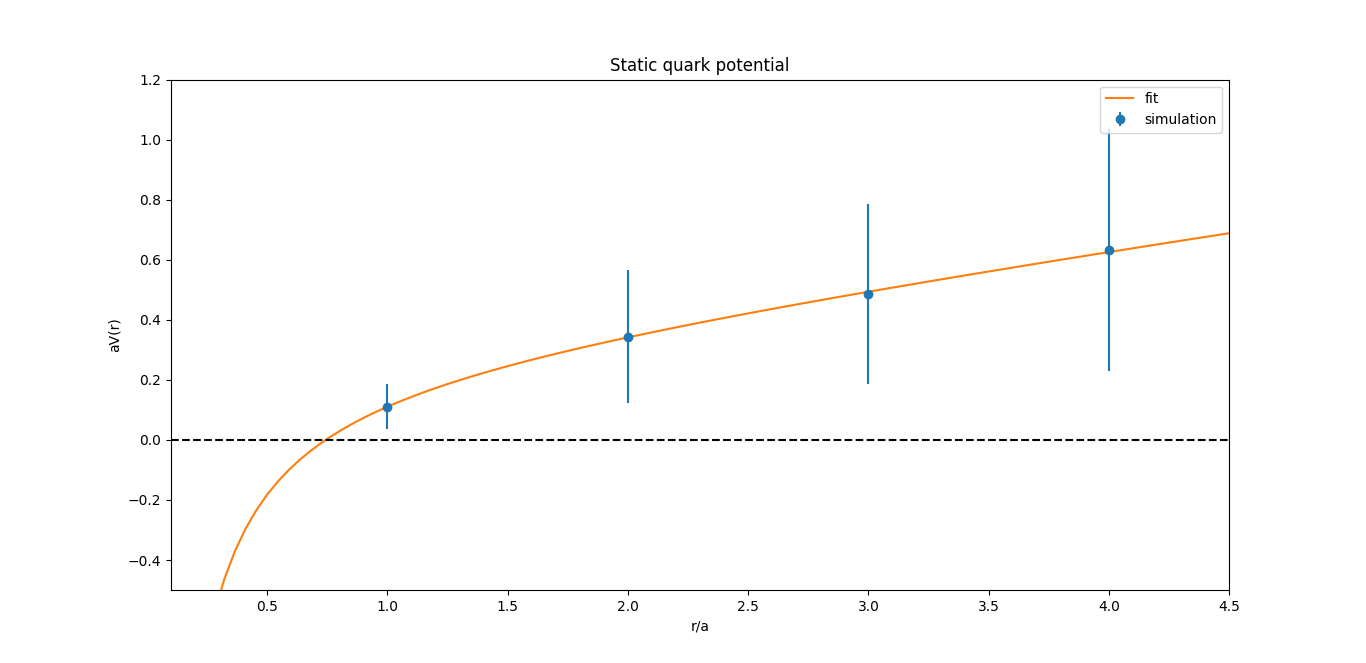
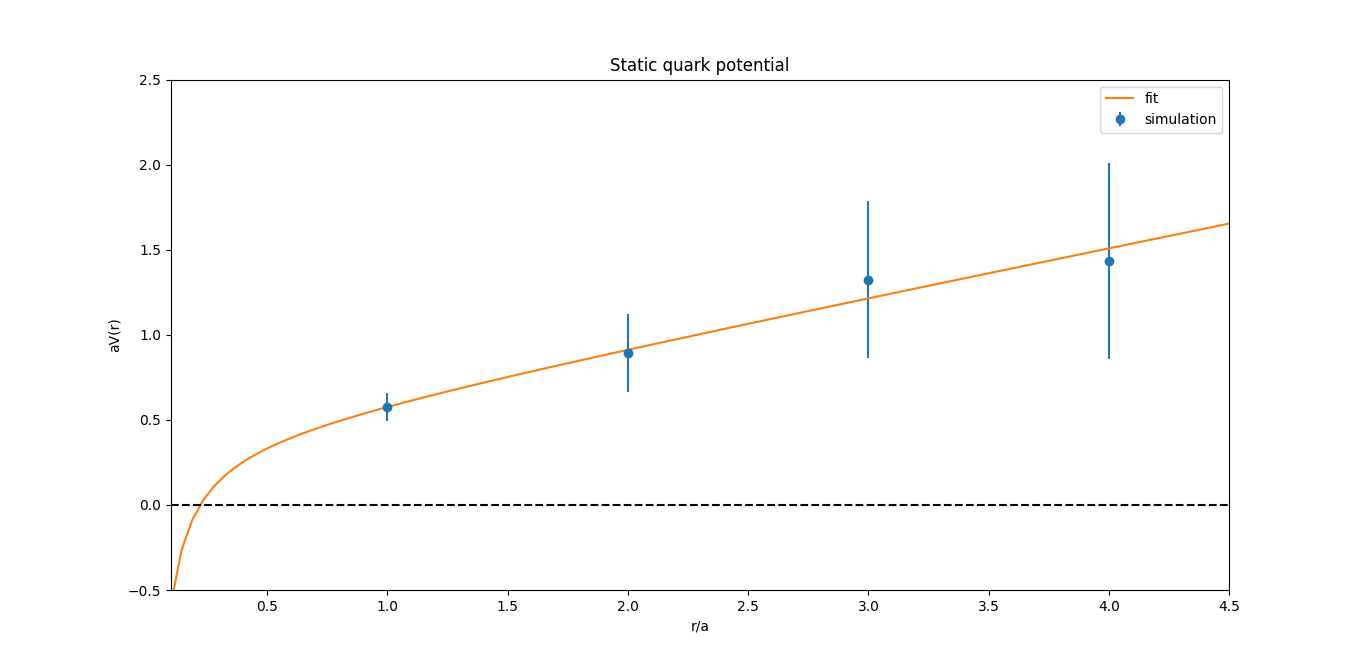
Final commit

diff --git a/static_quarks.py b/static_quarks.py
@@ -4,7 +4,7 @@ from tqdm import tqdm
 from numba import jit
 
 #choose 'n' for unimproved antion and 'y' otherwise
-improve = False
+improve = True
 #lattice smearing
 smearing = False
 #atoms per side of lattice
@@ -414,37 +414,38 @@ def Wilson(lattice, Ms, max_r, min_t, max_t):
     return W_planar_r_t, W_planar_r_t_err
 
 @jit(nopython=True)
-def gauge_covariant_derivative(lattice, point1, starting_direction):
-    link_up = call_link(point1, starting_direction, lattice, dagger=False)
+def gauge_covariant_derivative(lattice, point, starting_direction):
+    link_up = call_link(point, starting_direction, lattice, dagger=False)
     link_up = np.ascontiguousarray(link_up)
     
     smeared_link = np.zeros((3, 3), dtype=np.complex128)
     for direction in range(dim):
+        if direction != starting_direction:
 
-        link_right = call_link(point1, direction, lattice, dagger=False)
-        link_right = np.ascontiguousarray(link_right)
-        up(point1, direction)
-        link_right_up = call_link(point1, starting_direction, lattice, dagger=False)
-        link_right_up = np.ascontiguousarray(link_right_up)
-        up(point1, starting_direction)
-        down(point1, direction)
-        link_right_up_left = call_link(point1, direction, lattice, dagger=True)
-        link_right_up_left = np.ascontiguousarray(link_right_up_left)
+            link_right = call_link(point, direction, lattice, dagger=False)
+            link_right = np.ascontiguousarray(link_right)
+            up(point, direction)
+            link_right_up = call_link(point, starting_direction, lattice, dagger=False)
+            link_right_up = np.ascontiguousarray(link_right_up)
+            up(point, starting_direction)
+            down(point, direction)
+            link_right_up_left = call_link(point, direction, lattice, dagger=True)
+            link_right_up_left = np.ascontiguousarray(link_right_up_left)
 
-        down(point1, direction)
-        link_left_up_right = call_link(point1, direction, lattice, dagger=False)
-        link_left_up_right = np.ascontiguousarray(link_left_up_right)
-        down(point1, starting_direction)
-        link_left_up = call_link(point1, starting_direction, lattice, dagger=False)
-        link_left_up = np.ascontiguousarray(link_left_up)
-        link_left = call_link(point1, direction, lattice, dagger=True)
-        link_left = np.ascontiguousarray(link_left)
-        up(point1, direction)
+            down(point, direction)
+            link_left_up_right = call_link(point, direction, lattice, dagger=False)
+            link_left_up_right = np.ascontiguousarray(link_left_up_right)
+            down(point, starting_direction)
+            link_left_up = call_link(point, starting_direction, lattice, dagger=False)
+            link_left_up = np.ascontiguousarray(link_left_up)
+            link_left = call_link(point, direction, lattice, dagger=True)
+            link_left = np.ascontiguousarray(link_left)
+            up(point, direction)
 
-        loop_right = link_right @ link_right_up @ link_right_up_left
-        loop_left = link_left @ link_left_up @ link_left_up_right
+            loop_right = link_right @ link_right_up @ link_right_up_left
+            loop_left = link_left @ link_left_up @ link_left_up_right
 
-        smeared_link = smeared_link + (1/(u_0*a)**2)*(loop_right - 2*(u_0**2)*link_up + loop_left)
+            smeared_link = smeared_link + (1/(u_0*a)**2)*(loop_right - 2*(u_0**2)*link_up + loop_left)
 
     return smeared_link
 
@@ -464,17 +465,15 @@ def project_to_SU3(M):
 
 @jit(nopython=True)        
 def smear_lattice(lattice, smearing_eps):
-    smeared_lattice = np.empty((N, N, N, N, dim, 3, 3), dtype=np.complex128)
     for t in range(N):
         for x in range(N):
             for y in range(N):
                 for z in range(N):
                     point = np.array([t, x, y, z])
-                    for direction in range(dim):
-                        smeared_lattice[t, x, y, z, direction] = lattice[t, x, y, z, direction] + smearing_eps*(a**2)*gauge_covariant_derivative(lattice, point, direction)
-                        smeared_lattice[t, x, y, z, direction] = project_to_SU3(smeared_lattice[t, x, y, z, direction])
-
-    return smeared_lattice
+                    for direction in range(1, dim):     #don't smear time-pointing links
+                        lattice[t, x, y, z, direction] = lattice[t, x, y, z, direction] + smearing_eps*(a**2)*gauge_covariant_derivative(lattice, point, direction)
+                        lattice[t, x, y, z, direction] = project_to_SU3(lattice[t, x, y, z, direction])
+    return lattice
 
 @jit(nopython=True)
 def smearings(lattice, number_of_smears):

diff --git a/Vqcd_data_analysis.py b/Vqcd_data_analysis.py
@@ -7,13 +7,13 @@ a = 0.25
 def V(r, sigma, b, c):
     return sigma*r - b/r + c
 
-WL_avg = np.load('data/W_rt Ncf=10, t=[1-5], imp=False, smear=True.npy')
-WL_avg_err = np.load('data/W_rt_err Ncf=10, t=[1-5], imp=False, smear=True.npy')
+WL_avg = np.load('data/W_rt Ncf=10, t=[1-5], imp=True, smear=True.npy')
+WL_avg_err = np.load('data/W_rt_err Ncf=10, t=[1-5], imp=True, smear=True.npy')
 
 r_max = WL_avg.shape[1]
 t_max = WL_avg.shape[0]
 
-rad = np.load('data/radius Ncf=10, t=[1-5], imp=False, smear=True.npy')
+rad = np.load('data/radius Ncf=10, t=[1-5], imp=True, smear=True.npy')
 
 potential = np.zeros(r_max-1) 
 potential_err_ratio = np.zeros(r_max-1) 
@@ -26,7 +26,7 @@ for r in rad:
 plt.errorbar(rad, potential, potential_err_log, fmt='o', label='simulation')
 plt.xlabel('r/a')
 plt.ylabel('aV(r)')
-plt.axis([0.1, 4.5, -0.5, 1.5])
+plt.axis([0.1, 4.5, -0.5, 2.5])
 plt.title('Static quark potential')
 
 popt, pcov = optimize.curve_fit(V, rad, potential, sigma=potential_err_log , p0=(0.5, 0.5, 0.5), bounds=([0, 0.1, 0],[1, 1, 1]))
@@ -35,5 +35,9 @@ fit = [popt[0]*x -popt[1]/x + popt[2] for x in radius]
 plt.plot(radius, fit, label='fit')
 plt.plot(radius, np.zeros(len(radius)), linestyle='dashed', color='black')
 plt.legend()
+
+print('sigma =' + str(popt[0]))
+print('b =' + str(popt[1]))
+print('c =' + str(popt[2]))
 
 plt.show()
